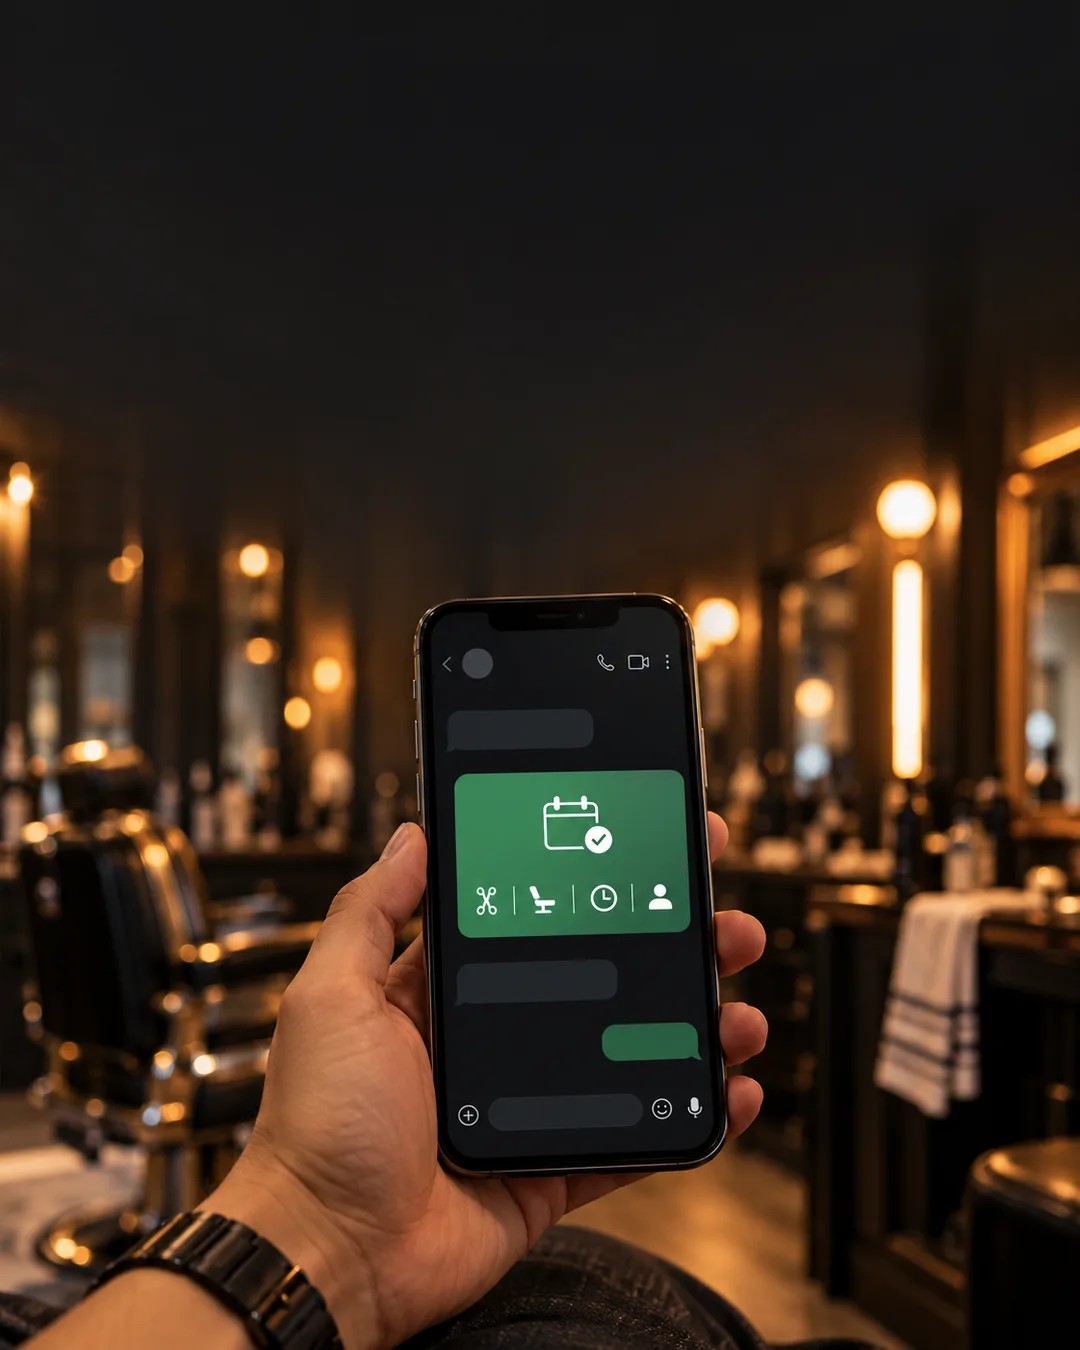
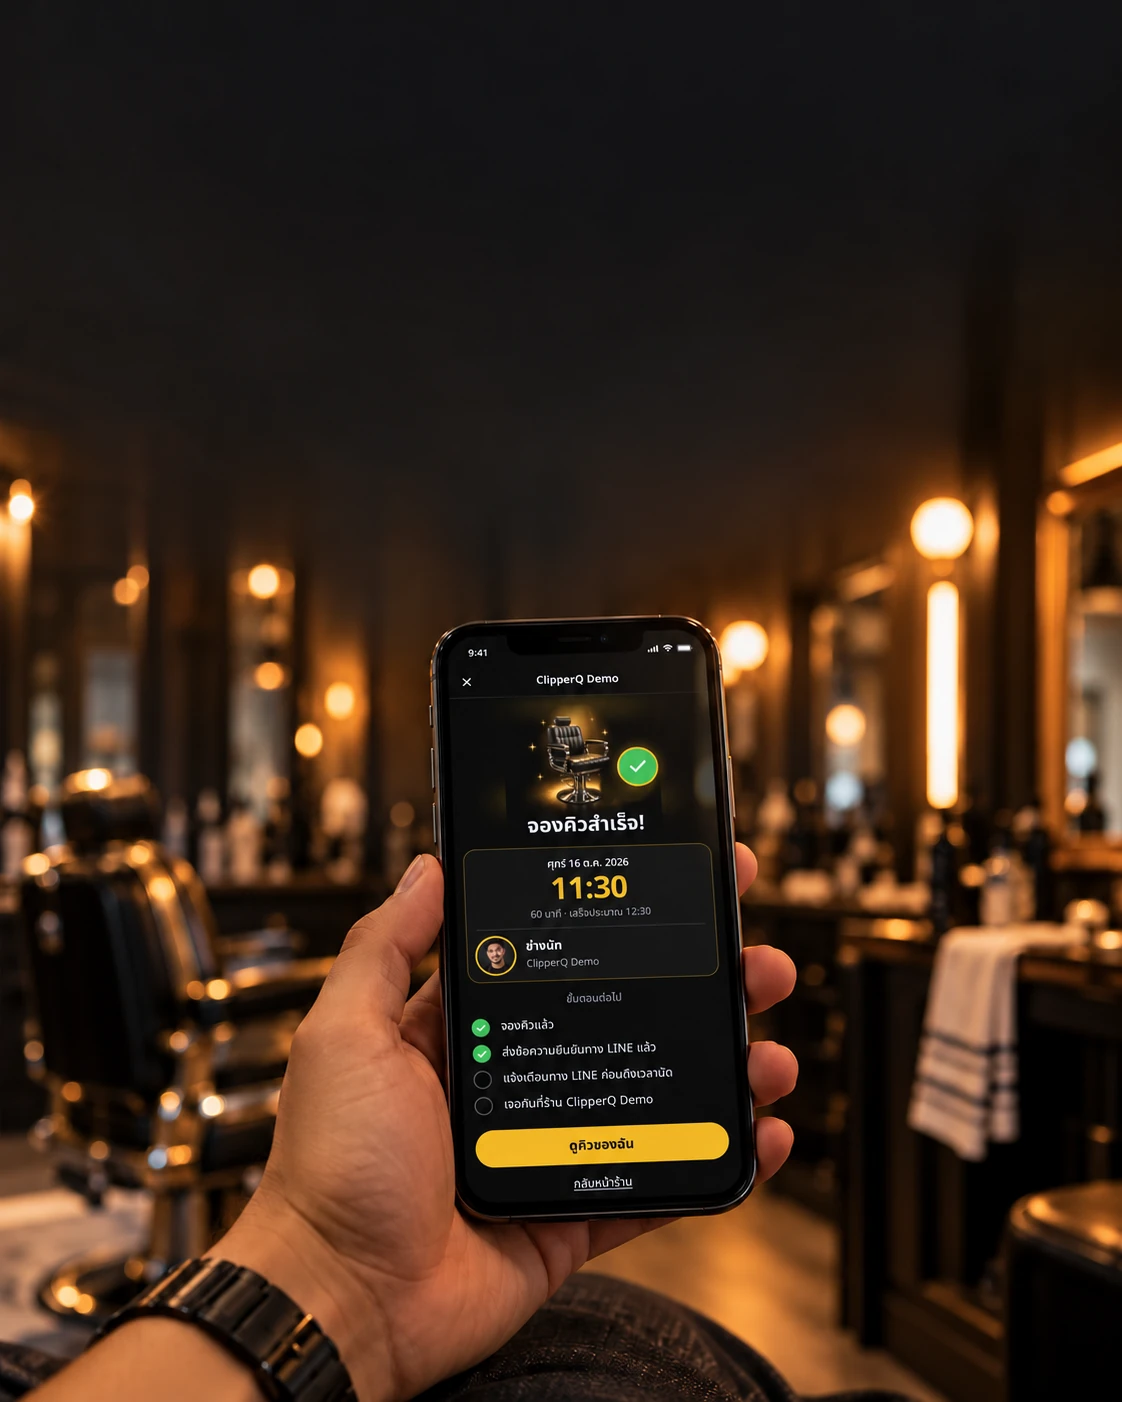
Replace mobile hero with Tommy 4:5 ClipperQ Demo plate
Export 1080×1350 webp/png from the 1122×1402 portrait, update the
heroMobile slot and layout tests for 4:5, keep design C (copy → CTA →
photo). Desktop hero unchanged.

diff --git a/src/lib/marketing/photo-slots.ts b/src/lib/marketing/photo-slots.ts
@@ -62,12 +62,12 @@ export const marketingPhotoSlots: Record<MarketingPhotoSlotId, MarketingPhotoSlo
     src: "/marketing/photos/hero-mobile.webp",
     fallbackSrc: "/marketing/photos/hero-mobile.png",
     swapPath: "/marketing/photos/hero-mobile.webp",
-    width: 940,
-    height: 627,
-    ratio: "3:2",
-    labelTh: "รูปฮีโร่มือถือ 3:2 940×627",
+    width: 1080,
+    height: 1350,
+    ratio: "4:5",
+    labelTh: "รูปฮีโร่มือถือ 4:5 1080×1350",
     artNote:
-      "940×627 · 3:2 crop of hero-desktop.png (x770–1710, y120–747) · phone 11:30 visible · sits below copy (design C) · PNG fallback /marketing/photos/hero-mobile.png",
+      "1080×1350 · 4:5 Tommy ClipperQ Demo hero plate (cover-crop from 1122×1402) · phone+hand fully visible · sits below copy (design C) · PNG fallback /marketing/photos/hero-mobile.png",
   },
   barberDesktop: {
     id: "barberDesktop",

diff --git a/src/lib/marketing/layout.test.ts b/src/lib/marketing/layout.test.ts
@@ -191,9 +191,10 @@ describe("marketing layout split", () => {
       marketingPhotoSlots.heroMobile.fallbackSrc,
       "/marketing/photos/hero-mobile.png",
     );
-    assert.equal(marketingPhotoSlots.heroMobile.width, 940);
-    assert.equal(marketingPhotoSlots.heroMobile.height, 627);
-    assert.match(marketingPhotoSlots.heroMobile.artNote, /3:2 crop|770|11:30/);
+    assert.equal(marketingPhotoSlots.heroMobile.width, 1080);
+    assert.equal(marketingPhotoSlots.heroMobile.height, 1350);
+    assert.equal(marketingPhotoSlots.heroMobile.ratio, "4:5");
+    assert.match(marketingPhotoSlots.heroMobile.artNote, /4:5|design C|1080/);
     assert.ok(
       existsSync(resolve(root, "../public/marketing/photos/hero-mobile.webp")),
       "hero-mobile.webp missing",

diff --git a/src/components/marketing/MarketingPhotoSlot.tsx b/src/components/marketing/MarketingPhotoSlot.tsx
@@ -44,6 +44,7 @@ function aspectClass(meta: MarketingPhotoSlot): string {
   if (Math.abs(ratio - 4 / 3) < 0.02) return "aspect-[4/3]";
   if (Math.abs(ratio - 1) < 0.02) return "aspect-square";
   if (Math.abs(ratio - 3 / 4) < 0.02) return "aspect-[3/4]";
+  if (Math.abs(ratio - 4 / 5) < 0.02) return "aspect-[4/5]";
   return "aspect-[4/5]";
 }
 

diff --git a/src/components/marketing/SalesHero.tsx b/src/components/marketing/SalesHero.tsx
@@ -116,6 +116,7 @@ export function SalesHero({
             alt=""
             priority
             sizes="(max-width: 1023px) 100vw, 0px"
+            objectPosition="center center"
             className="w-full rounded-2xl"
           />
         </div>
